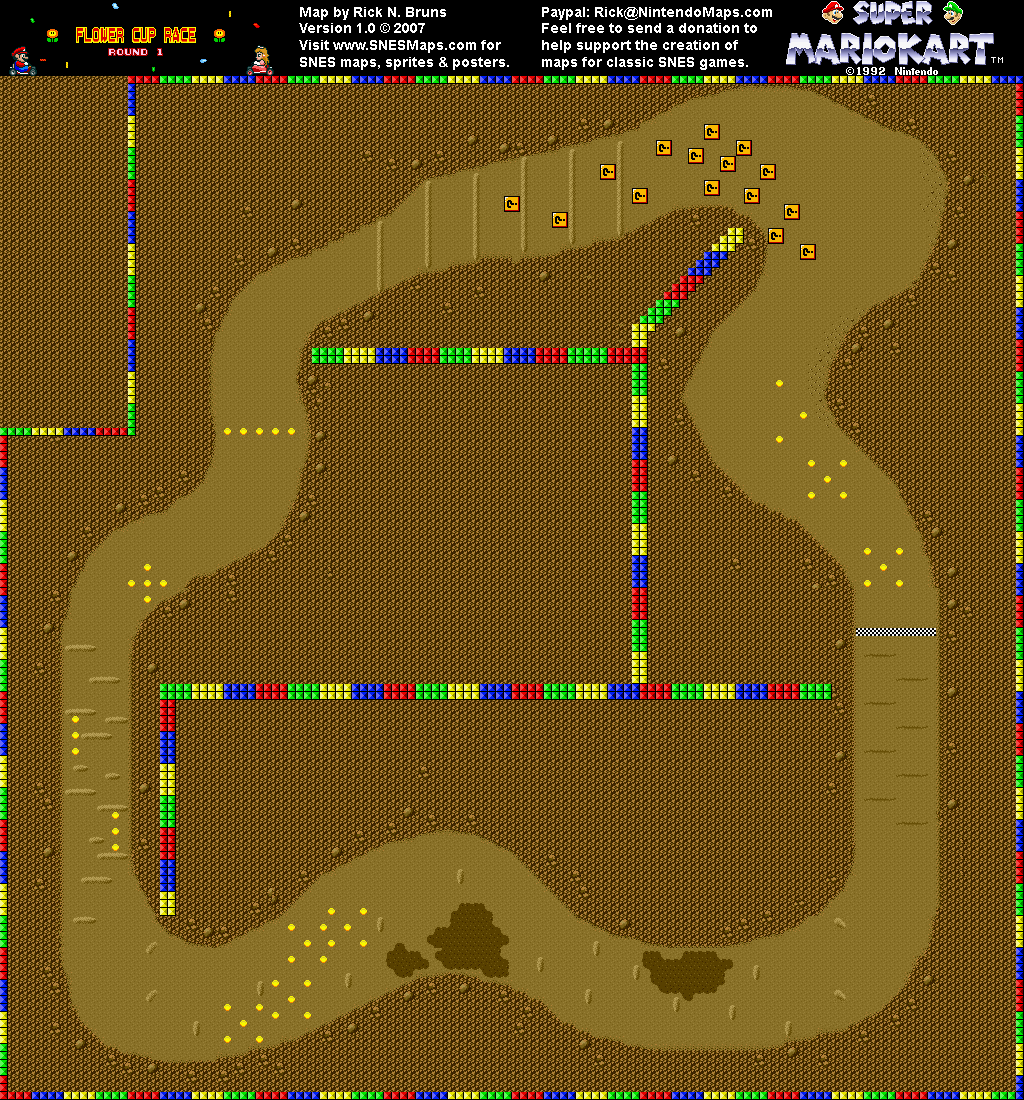
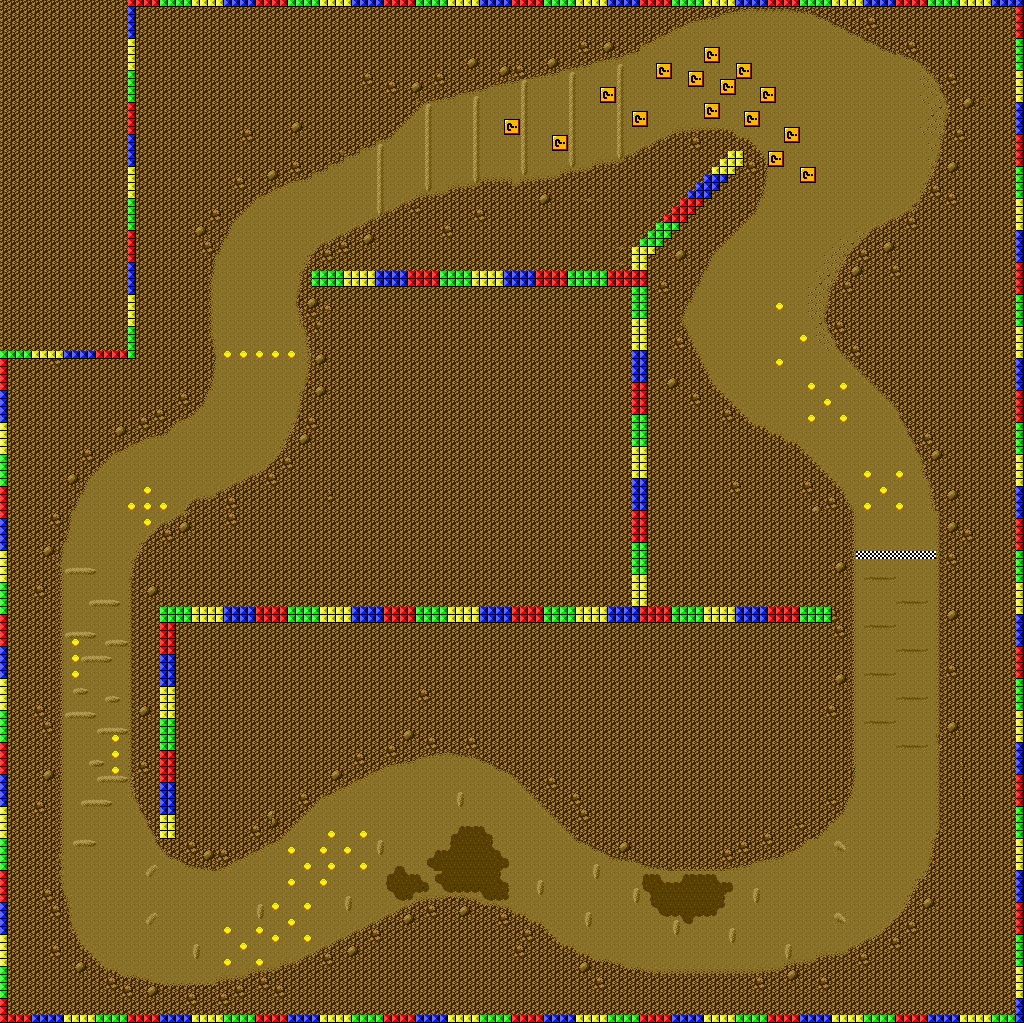
Clean up a bit for shippin'

diff --git a/index.html b/index.html
@@ -7,13 +7,27 @@
       #canvas {
         background: #000;
       }
+
+      .container {
+        text-align: center;
+        padding-top: 30px;
+        font-family: Helvetica, Arial, sans-serif;
+        line-height: 22px;
+      }
     </style>
+
+    <script src="bundle.js"></script>
 
   </head>
 
   <body>
-    <canvas id="canvas"></canvas>
+    <div class="container">
+      <canvas id="canvas"></canvas>
+      <p>
+        Controls: WASD <br/>
+        <a href="https://github.com/thomasboyt/mode7">Source</a> &middot; <a href="http://www.snesmaps.com/maps/SuperMarioKart/SuperMarioKartMapFlowerCup1.html">Map</a> &middot; <a href="http://helixsoft.nl/articles/circle/sincos.htm">Learnin'</a>
+      </p>
+    </div>
 
-    <script src="bundle.js"></script>
   </body>
 </html>

diff --git a/webpack.prod.config.js b/webpack.prod.config.js
@@ -1,0 +1,11 @@
+var _ = require('lodash');
+
+var config = require('./webpack.config');
+
+config = _.merge({
+  output: {
+    publicPath: '/mode7/'
+  }
+}, config);
+
+module.exports = config;

diff --git a/src/main.js b/src/main.js
@@ -1,5 +1,5 @@
 var Coquette = require('coquette');
-var mapUrl = require('../assets/crop_map.png');
+var mapUrl = require('../assets/map.png');
 var World = require('./World');
 
 class Game {
